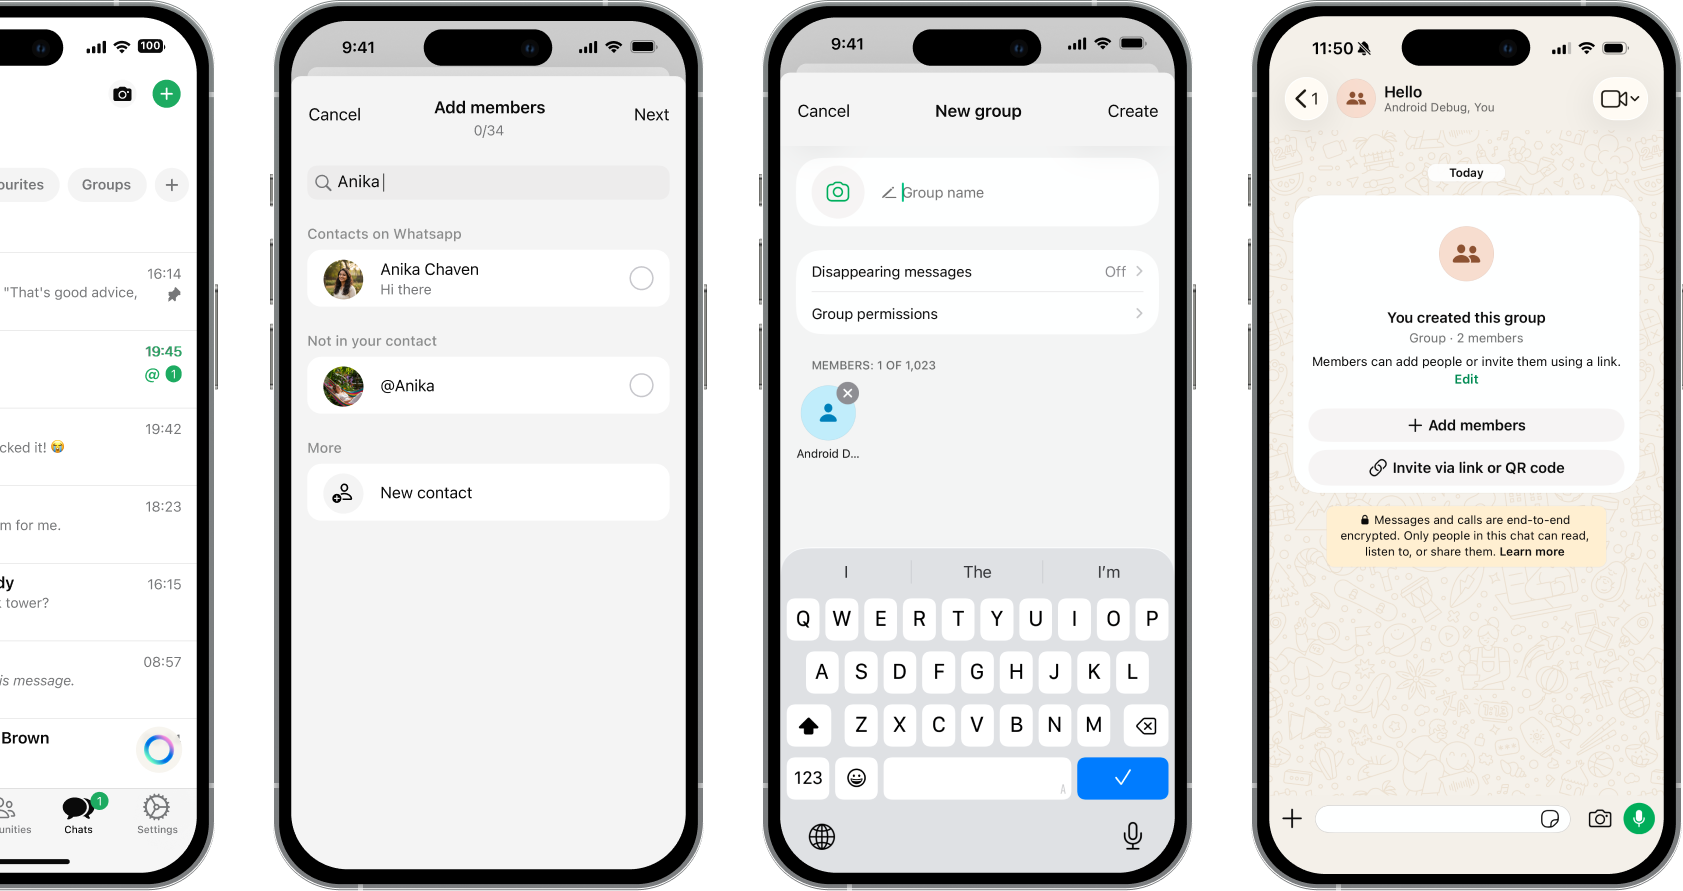
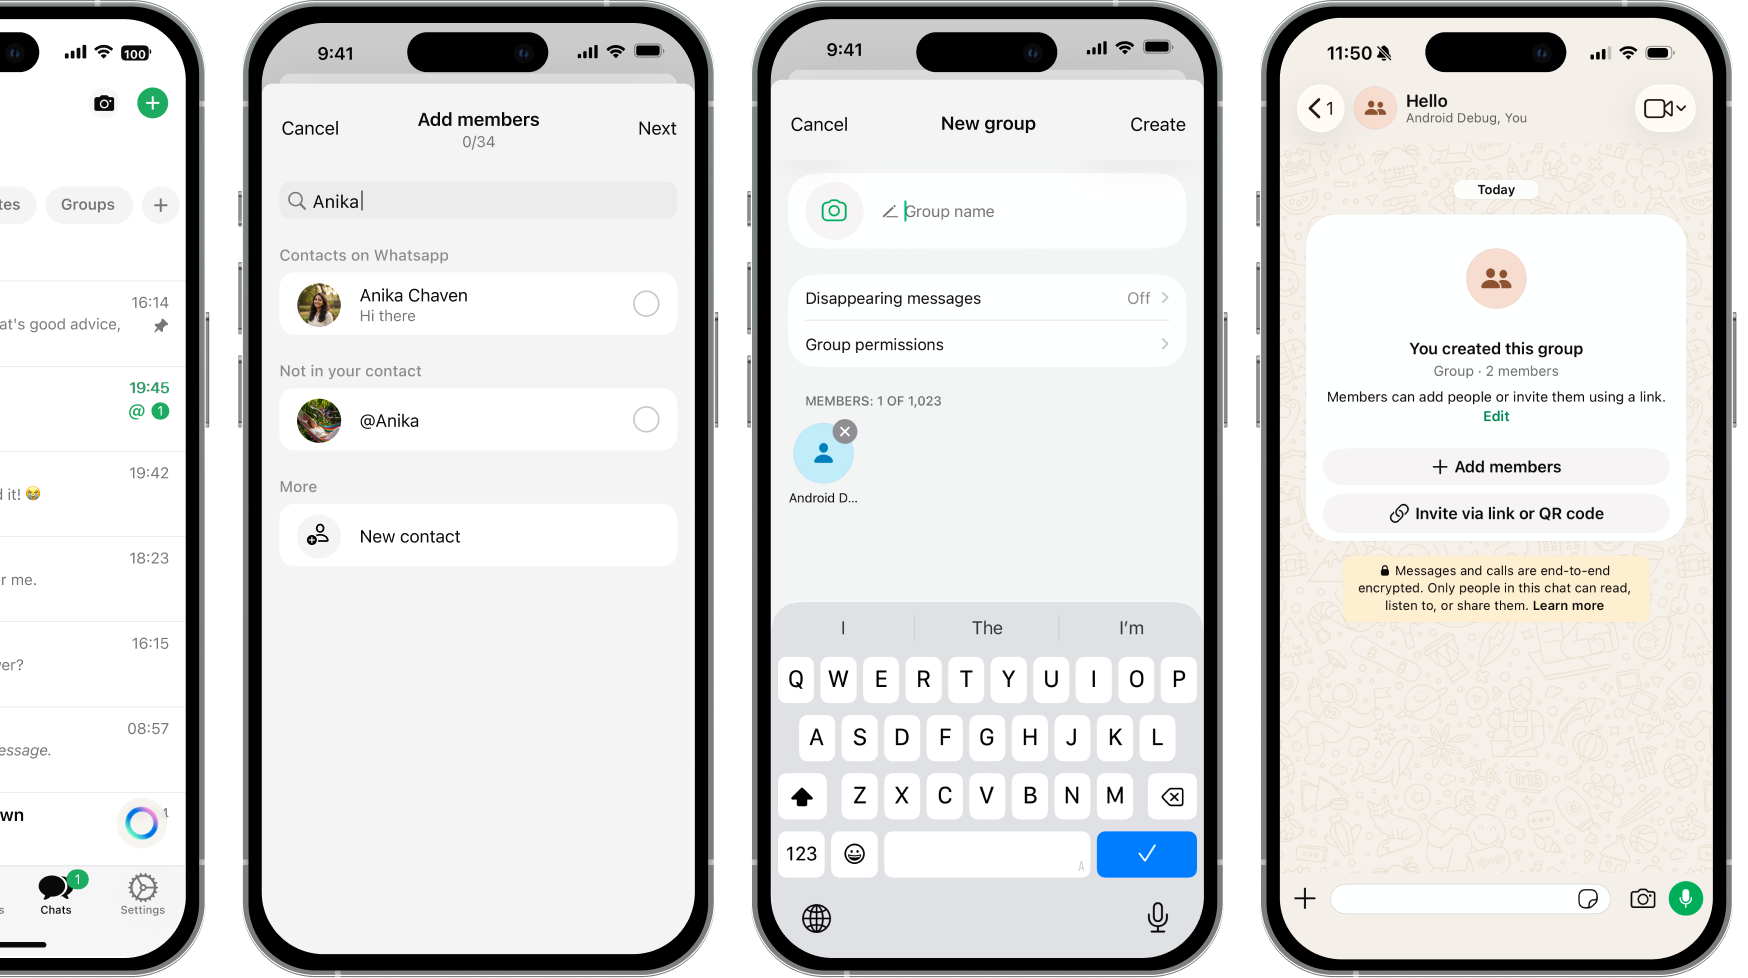
WhatsApp: update WA9 image and enlarge it in grid

diff --git a/project/index.html b/project/index.html
@@ -577,7 +577,7 @@
             <div class="wa-slide" style="background-image:url('./assets/WAORANGEBG.png');"><img src="./assets/WAORANGE.png" alt=""></div>
             <div class="wa-slide" style="background-image:url('./assets/WABLUEBG.png');"><img src="./assets/WABLUE.png" alt=""></div>
           </div>
-          <div class="wa-cell wa-imgcell" style="background:#111B21; aspect-ratio:630/470; justify-content:flex-start;"><img src="./assets/WA9.png" alt="" style="width:92%;height:auto;"></div>
+          <div class="wa-cell wa-imgcell" style="background:#111B21; aspect-ratio:630/470; justify-content:flex-start;"><img src="./assets/WA9.png" alt="" style="width:98%;height:auto;"></div>
           <div class="wa-cell wa-imgcell" style="background:#EFEAE1; aspect-ratio:630/415; align-items:flex-end;"><img src="./assets/WA11.png" alt="" style="width:55%;height:auto;"></div>
         </div>
       </div>
